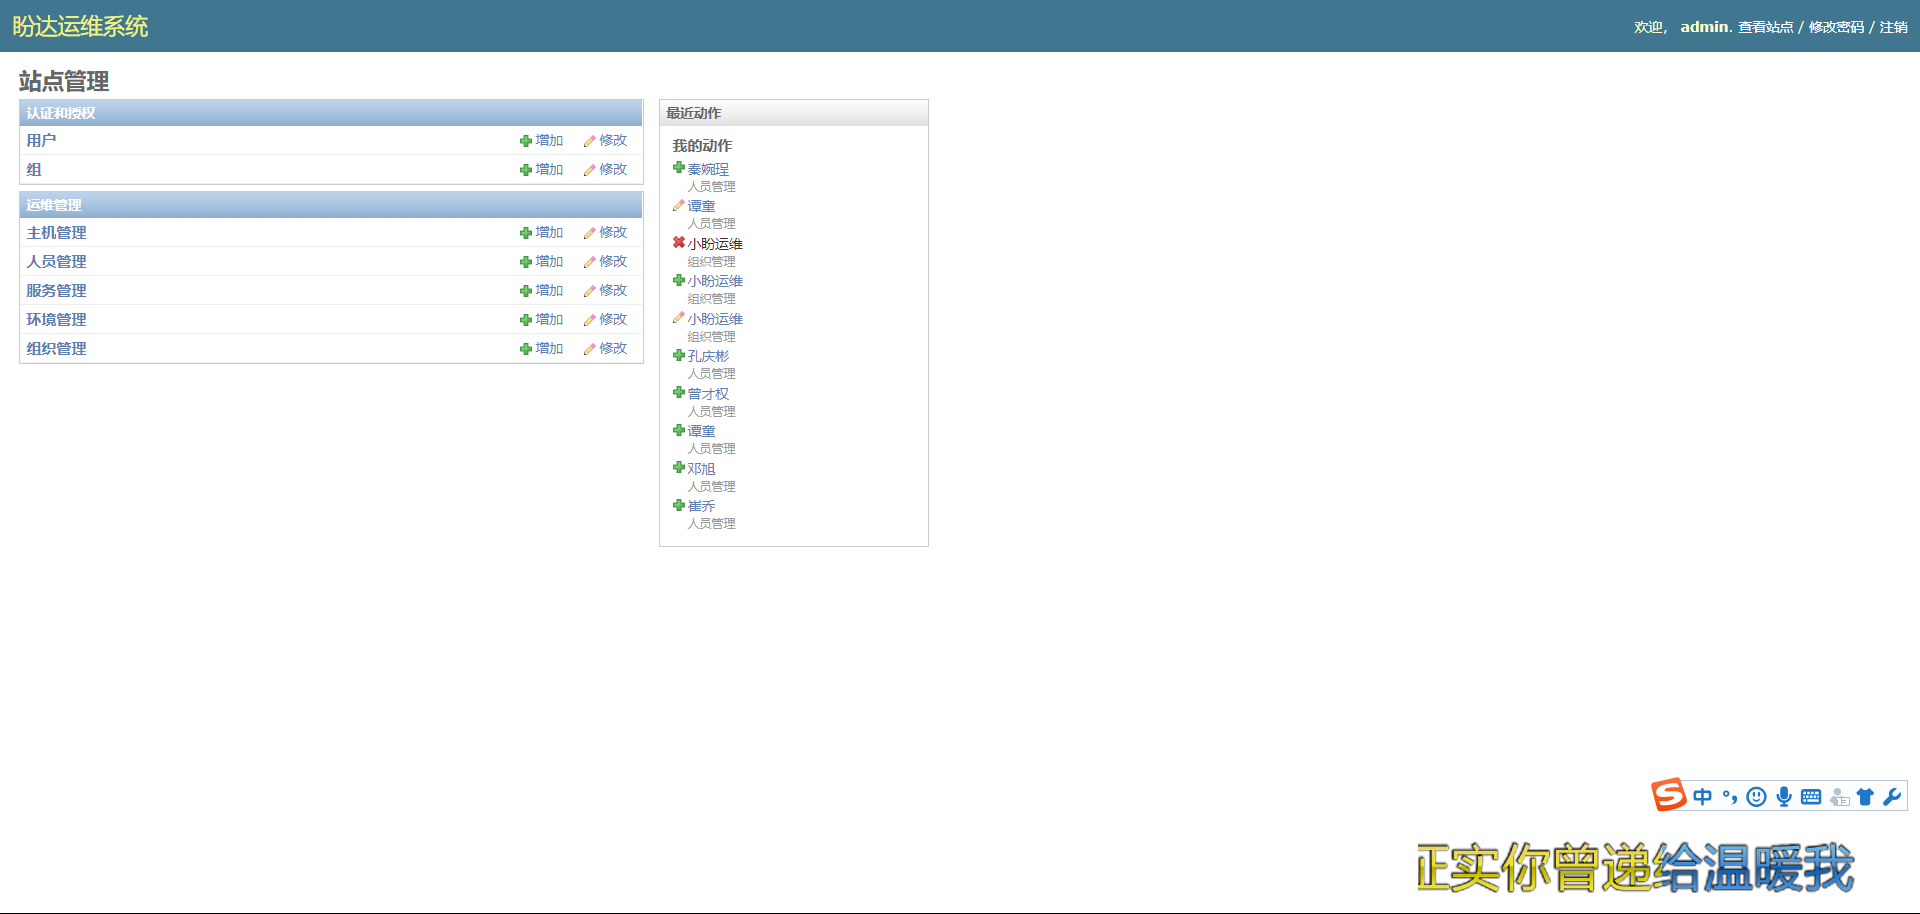
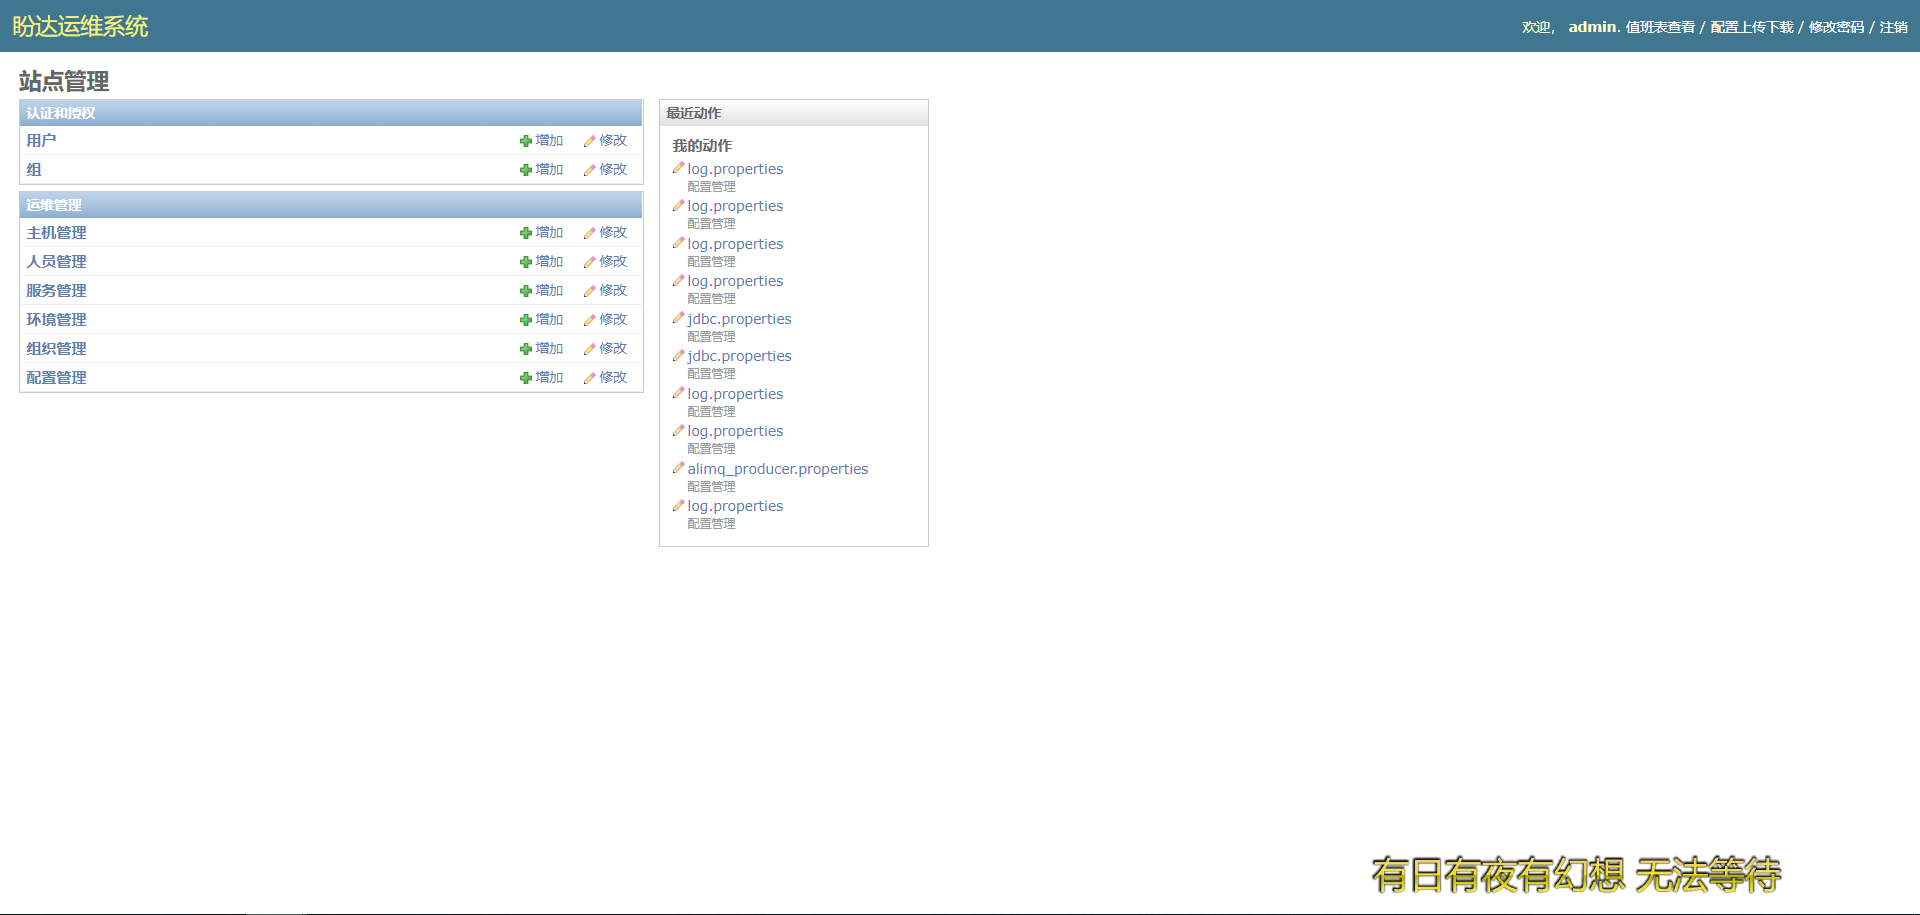
1.修改README文件 2.删除IDE配置文件

diff --git a/README.MD b/README.MD
@@ -19,6 +19,10 @@
 
 ![image](https://github.com/banqinghong/watchman/blob/master/docs/3.png)
 
+# 配置文件上传下载页面：
+
+![image](https://github.com/banqinghong/watchman/blob/master/docs/4.png)
+
 # 部署注意：
 1.修改settings.py中的ALLOWED_HOSTS以及DATABASES <br>
 2.进入项目目录，初始化数据库 <br>
